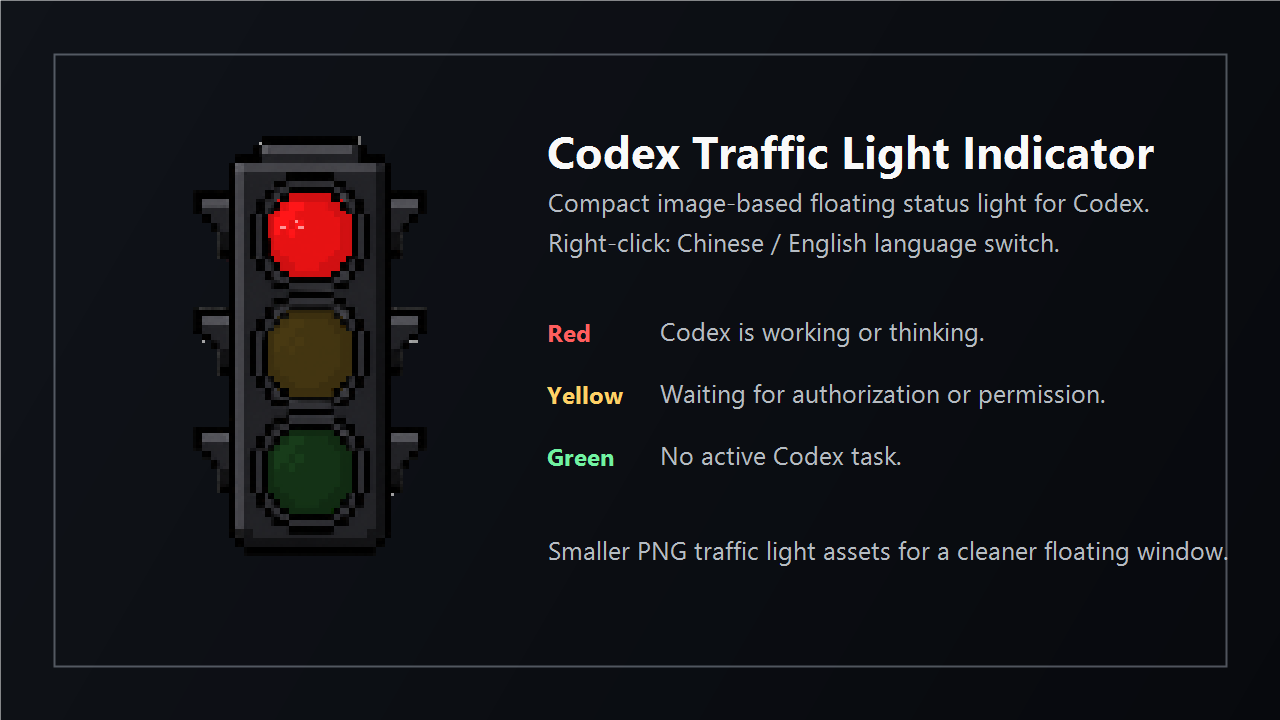
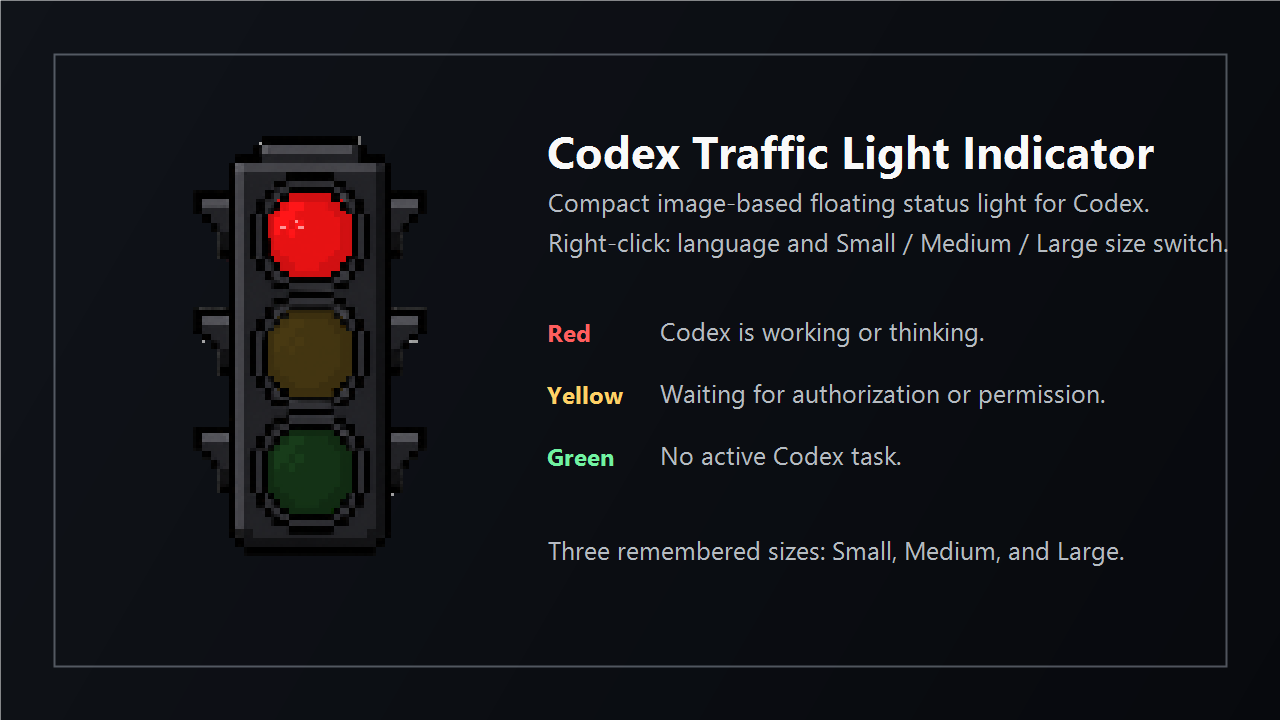
Add floating window size options

Changed region(s): [[0.4375, 0.7333, 0.9688, 0.7944], [0.5312, 0.3056, 0.9688, 0.3667]]

diff --git a/scripts/traffic_light_window.py b/scripts/traffic_light_window.py
@@ -8,10 +8,9 @@ import tkinter as tk
 from pathlib import Path
 from tkinter import Menu
 
-from traffic_light_common import normalize_language, read_status, status_label, status_path, write_status
+from traffic_light_common import normalize_language, normalize_ui_size, read_status, status_label, status_path, write_status
 
 
-WINDOW_SIZE = "188x236"
 TRANSPARENT_COLOR = "#010203"
 POLL_MS = 500
 CONNECTED_WINDOW_SECONDS = 45
@@ -24,9 +23,53 @@ CODEX_STATE_PATH = Path.home() / ".codex" / ".codex-global-state.json"
 CODEX_SESSIONS_ROOT = Path.home() / ".codex" / "sessions"
 ASSET_DIR = Path(__file__).resolve().parents[1] / "assets"
 STATUS_IMAGE_FILES = {
-    "red": "traffic-light-red.png",
-    "yellow": "traffic-light-yellow.png",
-    "green": "traffic-light-green.png",
+    "red": "traffic-light-red-{size}.png",
+    "yellow": "traffic-light-yellow-{size}.png",
+    "green": "traffic-light-green-{size}.png",
+}
+UI_SIZES = {
+    "small": {
+        "window": "168x222",
+        "canvas_w": 112,
+        "canvas_h": 150,
+        "text_w": 168,
+        "text_h": 48,
+        "text_x": 84,
+        "status_y": 12,
+        "connection_y": 34,
+        "status_font": ("Microsoft YaHei UI", 10, "bold"),
+        "connection_font": ("Microsoft YaHei UI", 9, "bold"),
+        "canvas_pady": (10, 0),
+        "text_pady": (6, 0),
+    },
+    "medium": {
+        "window": "188x236",
+        "canvas_w": 128,
+        "canvas_h": 172,
+        "text_w": 188,
+        "text_h": 48,
+        "text_x": 94,
+        "status_y": 12,
+        "connection_y": 34,
+        "status_font": ("Microsoft YaHei UI", 11, "bold"),
+        "connection_font": ("Microsoft YaHei UI", 10, "bold"),
+        "canvas_pady": (12, 0),
+        "text_pady": (6, 0),
+    },
+    "large": {
+        "window": "228x288",
+        "canvas_w": 164,
+        "canvas_h": 220,
+        "text_w": 228,
+        "text_h": 56,
+        "text_x": 114,
+        "status_y": 14,
+        "connection_y": 40,
+        "status_font": ("Microsoft YaHei UI", 12, "bold"),
+        "connection_font": ("Microsoft YaHei UI", 11, "bold"),
+        "canvas_pady": (12, 0),
+        "text_pady": (7, 0),
+    },
 }
 UI_TEXT = {
     "zh": {
@@ -38,6 +81,10 @@ UI_TEXT = {
         "language": "\u8bed\u8a00 / Language",
         "chinese": "\u4e2d\u6587",
         "english": "English",
+        "size": "\u5927\u5c0f / Size",
+        "small": "\u5c0f",
+        "medium": "\u4e2d",
+        "large": "\u5927",
         "open_state": "\u6253\u5f00\u72b6\u6001\u6587\u4ef6\u5939",
         "exit": "\u9000\u51fa",
     },
@@ -50,6 +97,10 @@ UI_TEXT = {
         "language": "Language / \u8bed\u8a00",
         "chinese": "\u4e2d\u6587",
         "english": "English",
+        "size": "Size / \u5927\u5c0f",
+        "small": "Small",
+        "medium": "Medium",
+        "large": "Large",
         "open_state": "Open state folder",
         "exit": "Exit",
     },
@@ -60,46 +111,66 @@ class TrafficLightWindow:
     def __init__(self) -> None:
         self.root = tk.Tk()
         self.root.title("Codex \u7ea2\u7eff\u706f\u63d0\u793a\u706f")
-        self.root.geometry(WINDOW_SIZE)
         self.root.resizable(False, False)
         self.root.overrideredirect(True)
         self.root.attributes("-topmost", True)
         self.root.attributes("-transparentcolor", TRANSPARENT_COLOR)
         self.root.configure(bg=TRANSPARENT_COLOR)
         self.drag_origin: tuple[int, int] | None = None
-        self.language = normalize_language(read_status().get("language"))
+        startup_status = read_status()
+        self.language = normalize_language(startup_status.get("language"))
+        self.ui_size = normalize_ui_size(startup_status.get("ui_size"))
         self.prompt_history_count = self.read_prompt_history_count()
         self.last_session_mtime = self.latest_session_mtime()
         self.session_quiet_since = time.time()
 
-        self.canvas = tk.Canvas(self.root, width=128, height=172, bg=TRANSPARENT_COLOR, highlightthickness=0)
-        self.canvas.pack(pady=(12, 0))
+        size_config = UI_SIZES[self.ui_size]
+        self.canvas = tk.Canvas(
+            self.root,
+            width=int(size_config["canvas_w"]),
+            height=int(size_config["canvas_h"]),
+            bg=TRANSPARENT_COLOR,
+            highlightthickness=0,
+        )
+        self.canvas.pack(pady=size_config["canvas_pady"])
         self.status_images = self.load_status_images()
         self.light_item: int | None = None
         self.lights: dict[str, int] = {}
         if self.status_images:
-            self.light_item = self.canvas.create_image(64, 86, image=self.status_images["green"], anchor="center")
+            self.light_item = self.canvas.create_image(
+                int(size_config["canvas_w"]) // 2,
+                int(size_config["canvas_h"]) // 2,
+                image=self.status_images[self.ui_size]["green"],
+                anchor="center",
+            )
         else:
             self.draw_fallback_light()
 
-        self.text_canvas = tk.Canvas(self.root, width=188, height=48, bg=TRANSPARENT_COLOR, highlightthickness=0)
-        self.text_canvas.pack(pady=(6, 0))
+        self.text_canvas = tk.Canvas(
+            self.root,
+            width=int(size_config["text_w"]),
+            height=int(size_config["text_h"]),
+            bg=TRANSPARENT_COLOR,
+            highlightthickness=0,
+        )
+        self.text_canvas.pack(pady=size_config["text_pady"])
         self.status_text_items = self.create_outlined_text(
             self.text_canvas,
-            94,
-            12,
+            int(size_config["text_x"]),
+            int(size_config["status_y"]),
             status_label("green", self.language),
             fill="#ffffff",
-            font=("Microsoft YaHei UI", 11, "bold"),
+            font=size_config["status_font"],
         )
         self.connection_text_items = self.create_outlined_text(
             self.text_canvas,
-            94,
-            34,
+            int(size_config["text_x"]),
+            int(size_config["connection_y"]),
             UI_TEXT[self.language]["waiting"],
             fill="#f3c969",
-            font=("Microsoft YaHei UI", 10, "bold"),
+            font=size_config["connection_font"],
         )
+        self.apply_window_size()
 
         self.menu = Menu(self.root, tearoff=False)
         self.rebuild_menu()
@@ -111,11 +182,13 @@ class TrafficLightWindow:
 
         self.poll()
 
-    def load_status_images(self) -> dict[str, tk.PhotoImage]:
-        images: dict[str, tk.PhotoImage] = {}
+    def load_status_images(self) -> dict[str, dict[str, tk.PhotoImage]]:
+        images: dict[str, dict[str, tk.PhotoImage]] = {}
         try:
-            for status, filename in STATUS_IMAGE_FILES.items():
-                images[status] = tk.PhotoImage(file=str(ASSET_DIR / filename))
+            for size in UI_SIZES:
+                images[size] = {}
+                for status, filename in STATUS_IMAGE_FILES.items():
+                    images[size][status] = tk.PhotoImage(file=str(ASSET_DIR / filename.format(size=size)))
         except tk.TclError:
             return {}
         return images
@@ -181,6 +254,48 @@ class TrafficLightWindow:
             canvas.itemconfig(item, text=text, fill="#050607")
         canvas.itemconfig(items[-1], text=text, fill=fill)
 
+    def configure_outlined_text(
+        self,
+        canvas: tk.Canvas,
+        items: list[int],
+        *,
+        x: int,
+        y: int,
+        font: tuple[str, int, str],
+    ) -> None:
+        offsets = [(-1, 0), (1, 0), (0, -1), (0, 1), (-1, -1), (1, 1), (0, 0)]
+        for item, (dx, dy) in zip(items, offsets):
+            canvas.coords(item, x + dx, y + dy)
+            canvas.itemconfig(item, font=font)
+
+    def apply_window_size(self) -> None:
+        size_config = UI_SIZES[self.ui_size]
+        self.root.geometry(str(size_config["window"]))
+        self.canvas.config(width=int(size_config["canvas_w"]), height=int(size_config["canvas_h"]))
+        self.canvas.pack_configure(pady=size_config["canvas_pady"])
+        self.text_canvas.config(width=int(size_config["text_w"]), height=int(size_config["text_h"]))
+        self.text_canvas.pack_configure(pady=size_config["text_pady"])
+        if self.light_item is not None and self.ui_size in self.status_images:
+            self.canvas.coords(
+                self.light_item,
+                int(size_config["canvas_w"]) // 2,
+                int(size_config["canvas_h"]) // 2,
+            )
+        self.configure_outlined_text(
+            self.text_canvas,
+            self.status_text_items,
+            x=int(size_config["text_x"]),
+            y=int(size_config["status_y"]),
+            font=size_config["status_font"],
+        )
+        self.configure_outlined_text(
+            self.text_canvas,
+            self.connection_text_items,
+            x=int(size_config["text_x"]),
+            y=int(size_config["connection_y"]),
+            font=size_config["connection_font"],
+        )
+
     def start_drag(self, event: tk.Event) -> None:
         self.drag_origin = (event.x_root - self.root.winfo_x(), event.y_root - self.root.winfo_y())
 
@@ -206,12 +321,25 @@ class TrafficLightWindow:
         self.language_menu.add_command(label=text["english"], command=lambda: self.set_language("en"))
         self.menu.add_cascade(label=text["language"], menu=self.language_menu)
         self.menu.add_separator()
+        self.size_menu = Menu(self.menu, tearoff=False)
+        self.size_menu.add_command(label=text["small"], command=lambda: self.set_size("small"))
+        self.size_menu.add_command(label=text["medium"], command=lambda: self.set_size("medium"))
+        self.size_menu.add_command(label=text["large"], command=lambda: self.set_size("large"))
+        self.menu.add_cascade(label=text["size"], menu=self.size_menu)
+        self.menu.add_separator()
         self.menu.add_command(label=text["open_state"], command=self.open_state_folder)
         self.menu.add_command(label=text["exit"], command=self.root.destroy)
 
     def set_language(self, language: str) -> None:
         self.language = normalize_language(language)
         write_status(language=self.language)
+        self.rebuild_menu()
+        self.apply_status()
+
+    def set_size(self, ui_size: str) -> None:
+        self.ui_size = normalize_ui_size(ui_size)
+        write_status(ui_size=self.ui_size)
+        self.apply_window_size()
         self.rebuild_menu()
         self.apply_status()
 
@@ -393,6 +521,10 @@ class TrafficLightWindow:
     def apply_status(self) -> None:
         data = read_status()
         self.language = normalize_language(data.get("language"))
+        next_size = normalize_ui_size(data.get("ui_size"))
+        if next_size != self.ui_size:
+            self.ui_size = next_size
+            self.apply_window_size()
         active = data.get("status", "green")
         updated_at = float(data.get("updated_at") or 0)
         if active == "yellow" and not self.authorization_pending() and time.time() - updated_at > YELLOW_IDLE_SECONDS:
@@ -403,8 +535,8 @@ class TrafficLightWindow:
             active = "green"
             data["message"] = status_label("green", self.language)
             write_status("green", status_label("green", self.language), language=self.language)
-        if self.light_item is not None and active in self.status_images:
-            self.canvas.itemconfig(self.light_item, image=self.status_images[active])
+        if self.light_item is not None and self.ui_size in self.status_images and active in self.status_images[self.ui_size]:
+            self.canvas.itemconfig(self.light_item, image=self.status_images[self.ui_size][active])
         else:
             colors = {
                 "red": ("#ef4444", "#5b1d20"),

diff --git a/scripts/traffic_light_common.py b/scripts/traffic_light_common.py
@@ -9,6 +9,8 @@ from typing import Any
 
 DEFAULT_LANGUAGE = "zh"
 SUPPORTED_LANGUAGES = {"zh", "en"}
+DEFAULT_UI_SIZE = "medium"
+SUPPORTED_UI_SIZES = {"small", "medium", "large"}
 
 STATUS_LABELS_BY_LANGUAGE = {
     "zh": {
@@ -35,6 +37,14 @@ def normalize_language(language: object) -> str:
     return DEFAULT_LANGUAGE
 
 
+def normalize_ui_size(ui_size: object) -> str:
+    if isinstance(ui_size, str):
+        normalized = ui_size.lower().strip()
+        if normalized in SUPPORTED_UI_SIZES:
+            return normalized
+    return DEFAULT_UI_SIZE
+
+
 def status_label(status: str, language: object = DEFAULT_LANGUAGE) -> str:
     normalized_status = status.lower().strip()
     normalized_language = normalize_language(language)
@@ -57,6 +67,7 @@ def default_status() -> dict[str, Any]:
         "status": "green",
         "message": status_label("green"),
         "language": DEFAULT_LANGUAGE,
+        "ui_size": DEFAULT_UI_SIZE,
         "codex_connected": False,
         "last_mcp_heartbeat": 0,
         "updated_at": now,
@@ -76,6 +87,7 @@ def read_status() -> dict[str, Any]:
     if merged.get("status") not in VALID_STATUSES:
         merged["status"] = "green"
     merged["language"] = normalize_language(merged.get("language"))
+    merged["ui_size"] = normalize_ui_size(merged.get("ui_size"))
     return merged
 
 
@@ -84,12 +96,15 @@ def write_status(
     message: str | None = None,
     *,
     language: str | None = None,
+    ui_size: str | None = None,
     codex_connected: bool | None = None,
     heartbeat: bool = False,
 ) -> dict[str, Any]:
     data = read_status()
     if language is not None:
         data["language"] = normalize_language(language)
+    if ui_size is not None:
+        data["ui_size"] = normalize_ui_size(ui_size)
     if status is not None:
         normalized = status.lower().strip()
         if normalized not in VALID_STATUSES: